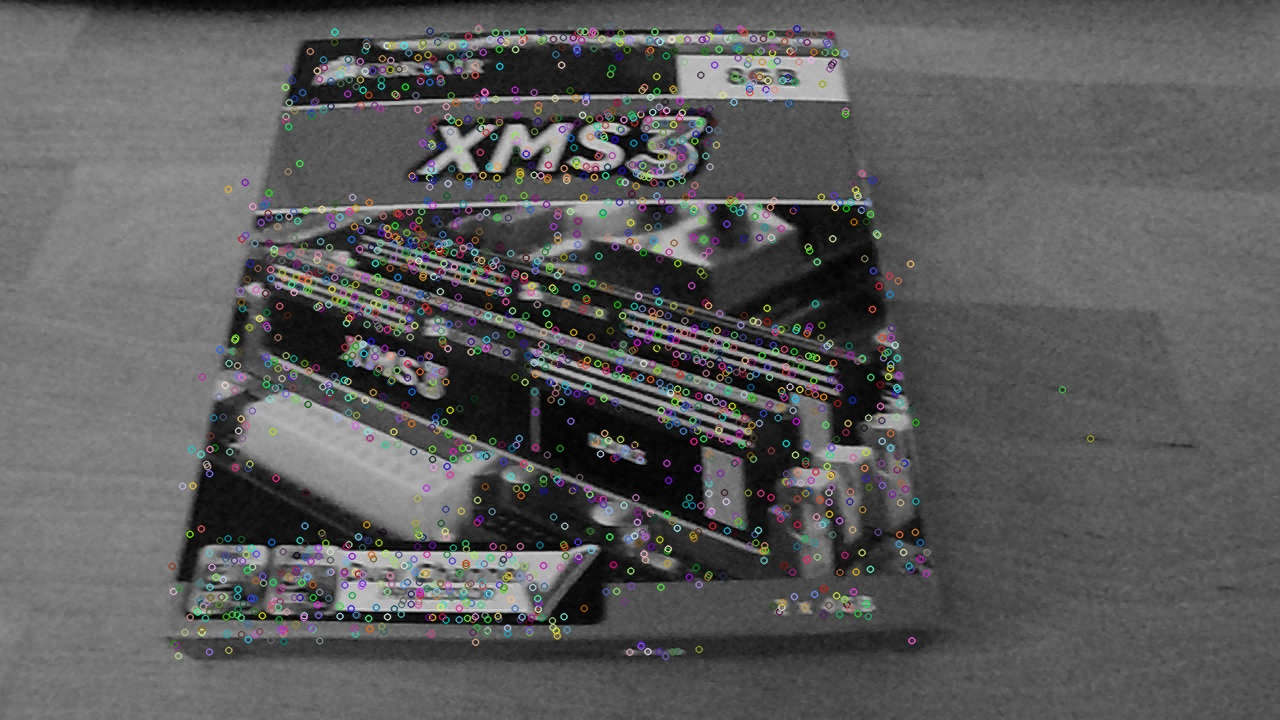
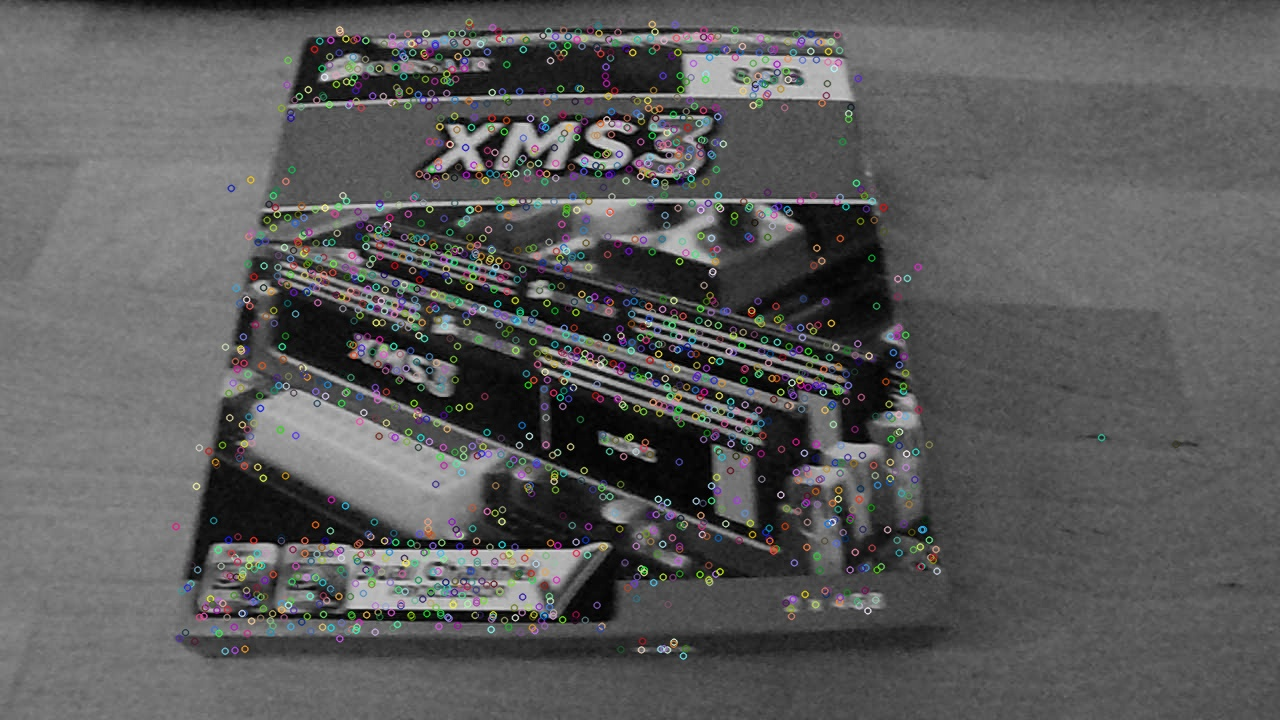
Switche to BruteForceMatcher

diff --git a/src/IStuff/database.cpp b/src/IStuff/database.cpp
@@ -91,7 +91,8 @@ Object Database::match( Mat frame ) {
 	vector< vector< DMatch > > matches;
 	vector< DMatch > goodMatches;
 
-	matcher.knnMatch( sceneDescriptors, matches, 2 );
+	//matcher.knnMatch( sceneDescriptors, matches, 2 );
+	bfmatcher.knnMatch( sceneDescriptors, matches, 2 );
 
 	if( debug )
 		cerr << "\t\t" << matches.size() << " matches found, start filtering the good ones\n";
@@ -330,6 +331,9 @@ void Database::load() {
 	matcher.add( descriptorDB );
 	matcher.train();
 
+	bfmatcher.add( descriptorDB );
+	bfmatcher.train();
+
 	if( debug )
 		cerr << "\tMatcher trained successfully" << endl;
 }
@@ -440,6 +444,9 @@ void Database::build( string imagesPath ) {
 	// after a Database load from file
 	matcher.add( descriptorDB );
 	matcher.train();
+
+	bfmatcher.add( descriptorDB );
+	bfmatcher.train();
 
 	// Now that the structures are filled, save them to a file for future usage
 	save();

diff --git a/src/IStuff/database.h b/src/IStuff/database.h
@@ -50,6 +50,7 @@ namespace IStuff {
 			std::string dbName;
 
 			cv::FlannBasedMatcher matcher;
+			cv::BFMatcher bfmatcher;
 			std::vector< Label > labelDB;
 			std::vector< cv::Scalar > labelColor;
 			std::vector< std::vector< cv::Point2f > > cornersDB;
